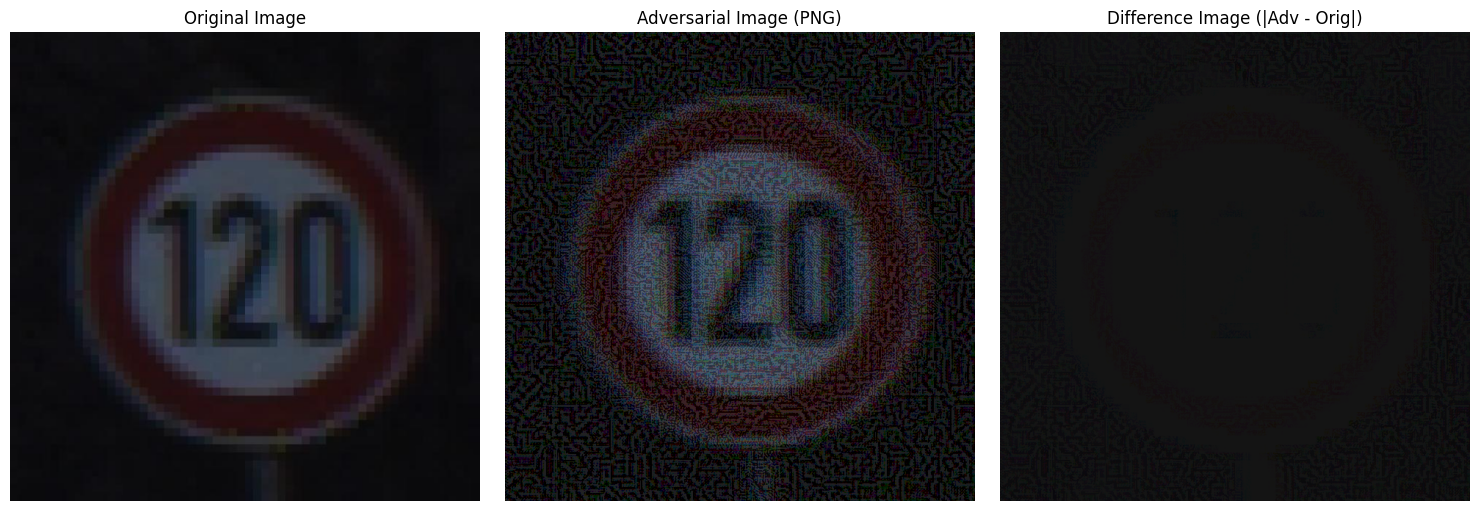
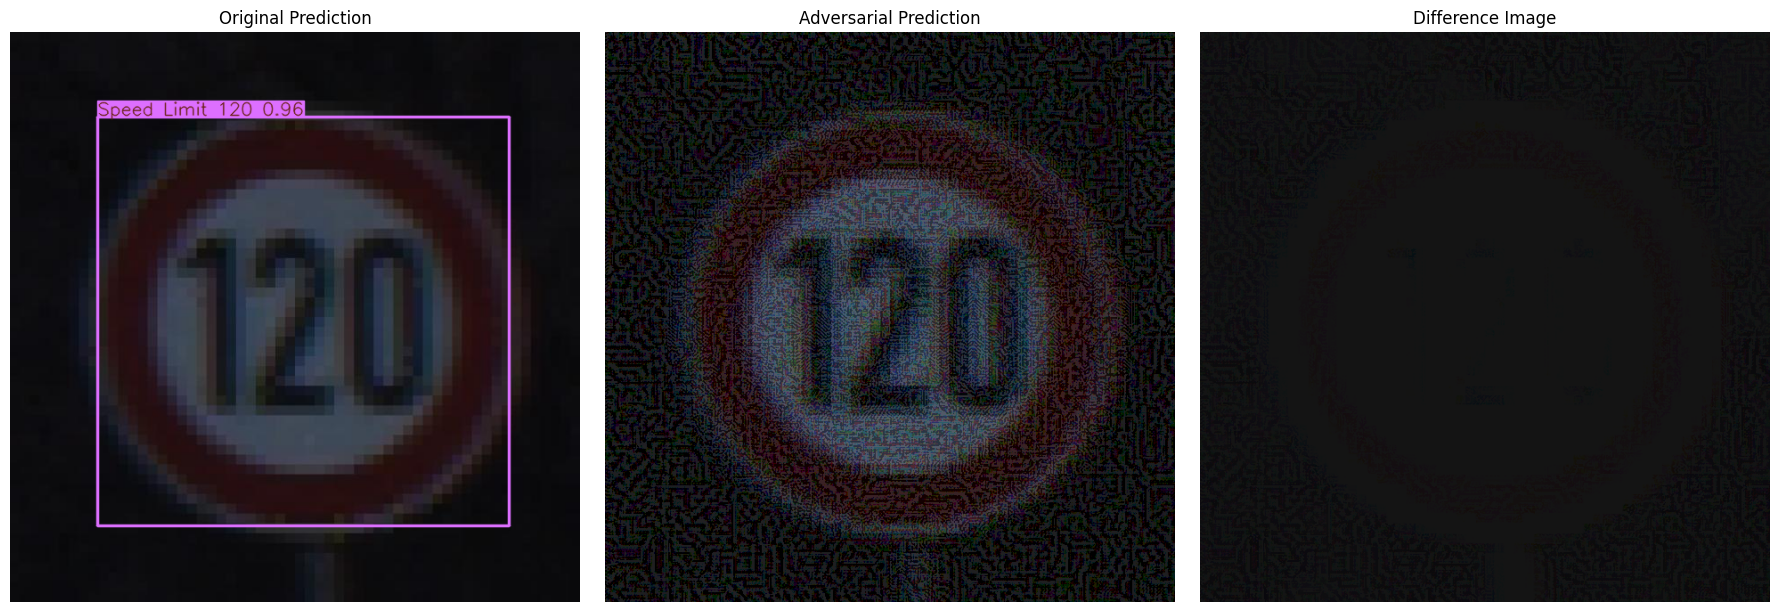
spectrograms to fgsm

diff --git a/thesis/main.tex b/thesis/main.tex
@@ -1274,8 +1274,8 @@ The Fast Gradient Sign Method (FGSM) is a seminal single-step adversarial attack
 
 
 \paragraph{Results}
-the evaluation happened over 100 samples from librespeech test dataset. The results are in Table~\ref{fgsm_wav2vec2}
 
+The effectiveness of the FGSM attack was evaluated across a range of epsilon values on 100 samples from the LibriSpeech test-clean dataset. The quantitative results, detailed in Table~\ref{fgsm_wav2vec2}.
 
 Original CER: 0.9\% - Original WER: 2.84\%.
 \begin{table}[H]
@@ -1296,6 +1296,50 @@ $\epsilon$   & {A-CER (\%)} & {A-WER (\%)} & {SNR (dB)} & {$\Delta$CER} & {$\Del
 \bottomrule
 \end{tabular}
 \end{table}
+
+The following figures provide a visual analysis of this trend by showing the spectrogram of a single representative audio sample after being subjected to the attack at each epsilon level.
+\begin{figure}[H]
+    \centering
+    \includegraphics[width=0.8\textwidth]{images/LM/ASR/fgsm_01.png} % Replace with the actual path to your image file
+    \caption{FGSM $\epsilon = 0.01$ Example showing the original, adversarial, and difference images.}
+    \label{fig:fgsm01_example_wav}
+\end{figure}
+
+At $\epsilon = 0.01$ Figure~\ref{fig:fgsm01_example_wav}, the adversarial spectrogram is visually indistinguishable from the original. The difference spectrogram reveals a very low-energy, structured noise pattern that is inaudible to a human listener. This minimal perturbation aligns with the high SNR of 37.56 dB and results in only a minor increase in transcription errors.
+
+
+\begin{figure}[H]
+    \centering
+    \includegraphics[width=0.8\textwidth]{images/LM/ASR/fgsm_02.png} % Replace with the actual path to your image file
+    \caption{FGSM $\epsilon = 0.02$ Example showing the original, adversarial, and difference images.}
+    \label{fig:fgsm02_example_wav}
+\end{figure}
+Increasing the epsilon to $\epsilon = 0.02$ in Figure~\ref{fig:fgsm02_example_wav}, the adversarial audio remains perceptually identical to the original. The noise spectrogram shows a slight increase in energy but retains its targeted structure, concentrating on the same time-frequency regions as the original speech.
+
+\begin{figure}[H]
+    \centering
+    \includegraphics[width=0.8\textwidth]{images/LM/ASR/fgsm_05.png} % Replace with the actual path to your image file
+    \caption{FGSM $\epsilon = 0.05$ Example showing the original, adversarial, and difference images.}
+    \label{fig:fgsm05_example_wav}
+\end{figure}
+At $\epsilon = 0.05$ in Figure~\ref{fig:fgsm05_example_wav}, the noise energy becomes more prominent in the difference spectrogram. While the main formants of the speech are still perfectly clear in the adversarial example, the perturbation is now strong enough to significantly mislead the model, nearly doubling the WER compared to the original.
+
+\begin{figure}[H]
+    \centering
+    \includegraphics[width=0.8\textwidth]{images/LM/ASR/fgsm_1.png} % Replace with the actual path to your image file
+    \caption{FGSM $\epsilon = 0.1$ Example showing the original, adversarial, and difference images.}
+    \label{fig:fgsm1_example_wav}
+\end{figure}
+With $\epsilon = 0.1$ in Figure~\ref{fig:fgsm1_example_wav}, the adversarial noise is more visible and structured. The attack now introduces enough distortion to degrade the SNR to 17.56 dB, causing a substantial increase in transcription errors, as reflected by the A-WER of 9.68%.
+
+\begin{figure}[H]
+    \centering
+    \includegraphics[width=0.8\textwidth]{images/LM/ASR/fgsm_2.png} % Replace with the actual path to your image file
+    \caption{FGSM $\epsilon = 0.2$ Example showing the original, adversarial, and difference images.}
+    \label{fig:fgsm2_example_wav}
+\end{figure}
+
+Finally, at the highest tested $\epsilon = 0.2$ in Figure~\ref{fig:fgsm2_example_wav}, the noise spectrogram shows a high-energy perturbation that visibly distorts the signal's structure. This corresponds to the lowest SNR of 11.54 dB and has the most severe impact on transcription accuracy, causing the A-CER to increase by nearly 7 percentage points over the baseline.
 
 
 \subsubsection{PGD Attack}
